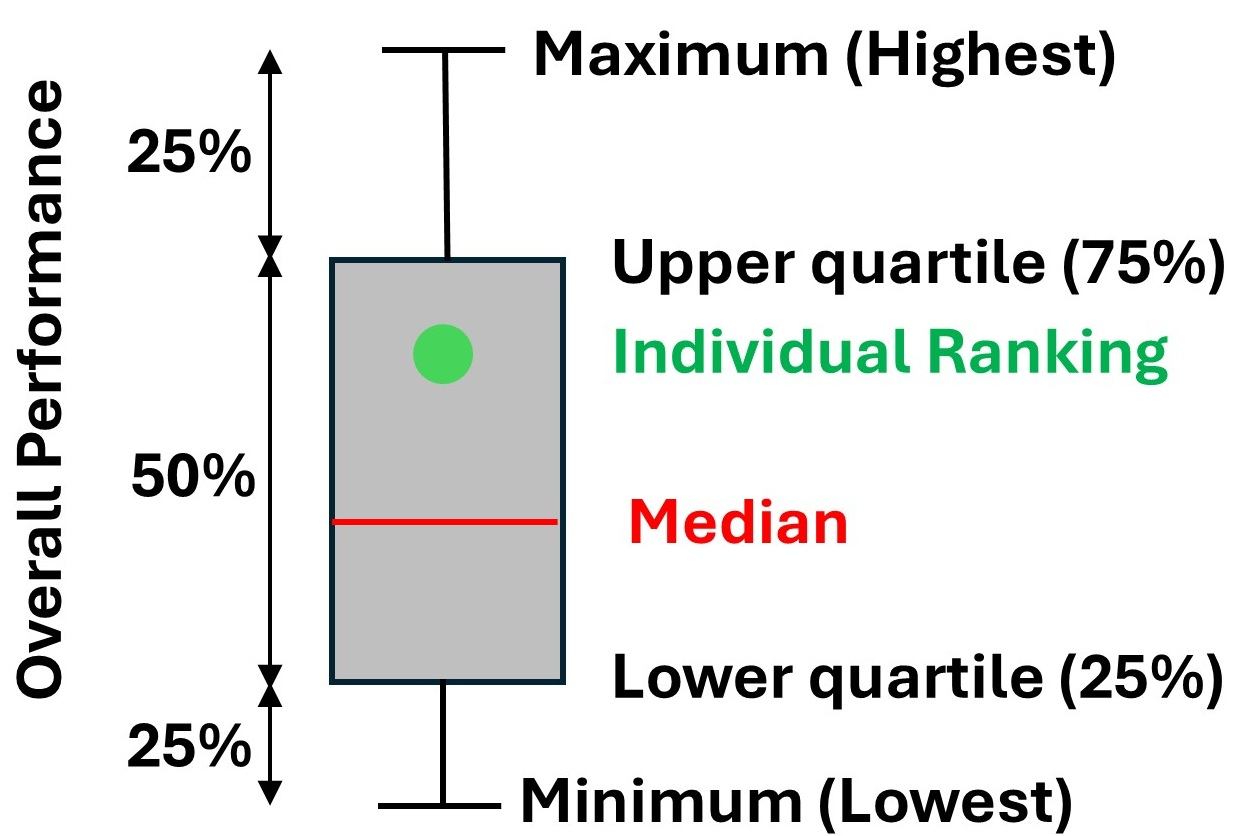
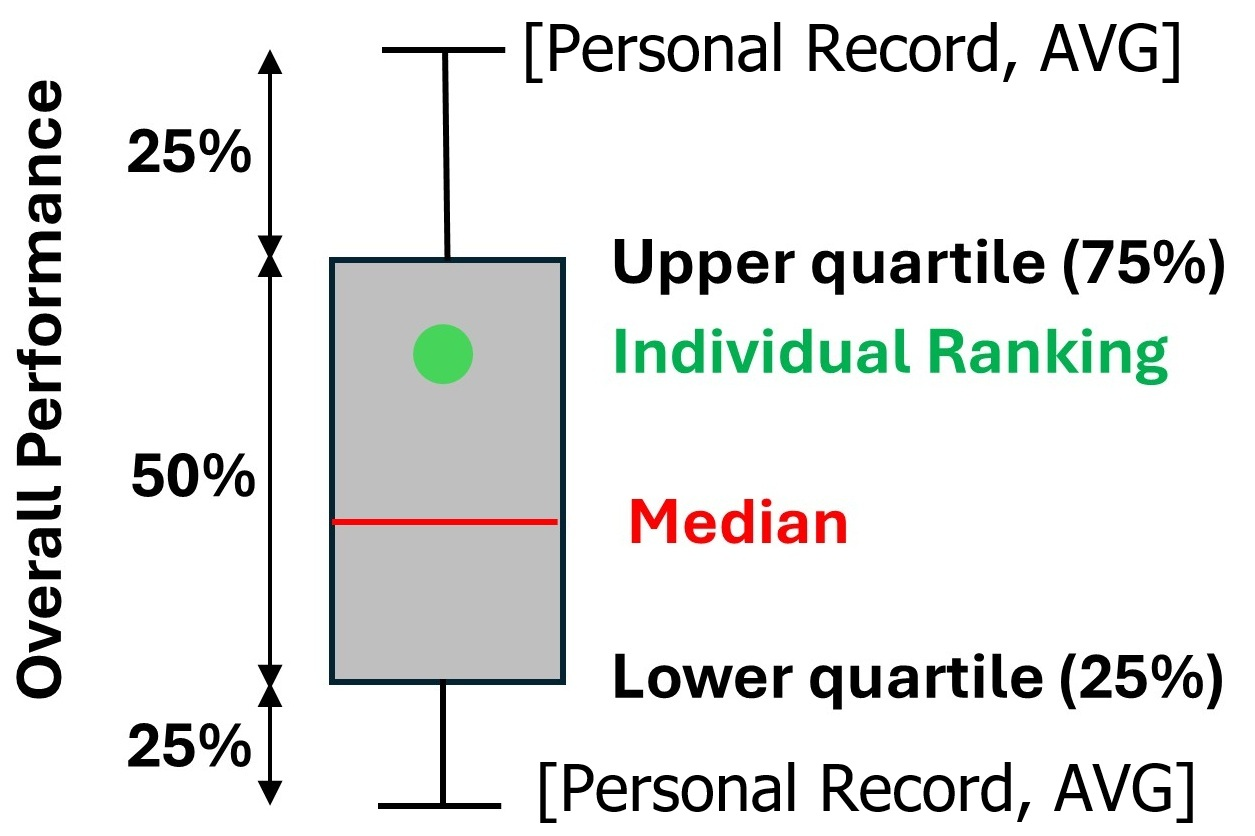
Almost Done

Changed region(s): [[0.404, 0.9019, 0.9633, 1.0], [0.404, 0.0311, 0.9633, 0.1244]]

diff --git a/python/templates/dashboard.html b/python/templates/dashboard.html
@@ -701,17 +701,16 @@
             </div>
             <img id="predictedRanking" src="" alt="Predicted Ranking" style="max-width: 100%; height: auto;">
           </div>
-          <div>
+          <div style="display: none">
             <h3>Classes Breakdown:</h3>
             <table id="classTable" style="max-width: 800px;">
-            <thead id="classTableHead">
-              <!-- History entries will be dynamically inserted here -->
-            </thead>
-            <tbody id="classTableBody">
-              <!-- History entries will be dynamically inserted here -->
-            </tbody>
-          </table>    
-
+              <thead id="classTableHead">
+                <!-- History entries will be dynamically inserted here -->
+              </thead>
+              <tbody id="classTableBody">
+                <!-- History entries will be dynamically inserted here -->
+              </tbody>
+            </table>    
           </div>
 
           <button type="submit" onclick="UplaodNewVideo()" class="btn btn-primary" style="min-width: 50px;max-width: 200px;margin-top: 20px;"> Return</button>

diff --git a/python/RankClustering.py b/python/RankClustering.py
@@ -9,6 +9,7 @@ matplotlib.use('Agg')  # Use non-interactive backend to avoid GUI issues
 import matplotlib.pyplot as plt
 from matplotlib.patches import Rectangle
 import matplotlib.cm as cm
+from matplotlib.offsetbox import AnchoredText
 
 
 class RankClustering:
@@ -87,7 +88,7 @@ class RankClustering:
             test_label.append([self.art_model.find_label(row)+1,float(row.values[0])])  
         return test_label
     
-    def draw_boxpolt(self,predicte_label, plot_name="ranking_boxplot.png",plot_title = "Ranking Prediction",is_comparison=False):
+    def draw_boxpolt(self,predicte_label,plot_name="ranking_boxplot.png",plot_title = "Ranking Prediction",is_comparison=False,runner_name="Unknown"):
         fig, ax = plt.subplots(figsize=(10, 6))
 
         # Colors and labels
@@ -98,8 +99,10 @@ class RankClustering:
         predict_color = (0.2, 0.8, 0.2, 0.6)       # semi-transparent green for predicted cluster
 
         labels = ['A', 'B', 'C', 'D', 'E']
-        
-        
+        df = self.get_cluster_summary()
+        df_index =0
+        label_y_offset = 0.04
+
         positions = list(range(len(self.boxplot_summary)))
 
         for stat, pos in zip(self.boxplot_summary, positions):
@@ -120,6 +123,9 @@ class RankClustering:
             # Whiskers
             ax.plot([pos, pos], [low, q1], color=line_color, linewidth=1)
             ax.plot([pos, pos], [q3, high], color=line_color, linewidth=1)
+            ax.text(pos, low-label_y_offset, f"[{df.iloc[df_index]['Min Best Score']}, {df.iloc[df_index]['Min Avg']}]", fontsize=10, color='black', ha='center')
+            ax.text(pos, high+label_y_offset+0.04, f"[{df.iloc[df_index]['Max Best Score']}, {df.iloc[df_index]['Max Avg']}]", fontsize=10, color='black', ha='center')
+            df_index += 1
 
             # Whisker caps
             ax.plot([pos - 0.1, pos + 0.1], [low, low], color=line_color, linewidth=1)
@@ -142,10 +148,22 @@ class RankClustering:
         if predicte_label and predicte_label[0][0] != -1:
             pred_cluster = predicte_label[0][0]
             pred_value = predicte_label[0][1]
-            ax.plot([pred_cluster], [pred_value], 'o', color=predict_color, markersize=12, label='Predicted Cluster')
+            if pred_cluster < 1 or pred_cluster > len(labels)-1:
+                ax.plot([pred_cluster], [pred_value], 'o', color='red', markersize=12, label=runner_name)
+                ax.text(pred_cluster, pred_value-0.07, "Out Of Range", fontsize=10, color='red', ha='center')
+            else:
+                ax.plot([pred_cluster], [pred_value], 'o', color=predict_color, markersize=12, label=runner_name)
+        ax.legend(title="Predicted Cluster", bbox_to_anchor=(1.05, 1), loc='upper left')
         # invert y-axis
         ax.invert_yaxis()
-
+        # Add information text
+        info_text = "Values:[PR, AVG]"
+        anchored_text = AnchoredText(info_text, loc='upper right', 
+                                    prop=dict(size=10), frameon=True)
+        anchored_text.patch.set_boxstyle("round,pad=0.5")
+        anchored_text.patch.set_facecolor("lightyellow")
+        anchored_text.patch.set_edgecolor("black")
+        ax.add_artist(anchored_text)
         if not is_comparison:
             os.makedirs(self.plot_output_folder, exist_ok=True)
             file_path = os.path.join(self.plot_output_folder, plot_name)
@@ -168,7 +186,11 @@ class RankClustering:
 
         labels = ['A', 'B', 'C', 'D', 'E']
         positions = list(range(len(self.boxplot_summary)))
-
+        # Get boxplot summary statistics
+        df = self.get_cluster_summary()
+        df_index =0
+        label_y_offset = 0.04
+        # Draw boxplots
         for stat, pos in zip(self.boxplot_summary, positions):
             q1 = stat["q1"]
             median = stat["median"]
@@ -176,25 +198,30 @@ class RankClustering:
             low = stat["whisker_low"]
             high = stat["whisker_high"]
             outliers = stat["outliers"]
-
             # Draw box
             rect = Rectangle((pos - 0.3, q1), 0.6, q3 - q1, facecolor=box_color, edgecolor=line_color, linewidth=1.2)
             ax.add_patch(rect)
 
             # Median line
             ax.plot([pos - 0.3, pos + 0.3], [median, median], color=median_color, linewidth=1)
+            # add labels for Median
+            median_label =f"[{df.iloc[df_index]['Mean Best']}, {df.iloc[df_index]['Mean Avg']}]"
+            # ax.text(pos, median+label_y_offset, f"{median_label}", fontsize=10, color='black', ha='center')
 
             # Whiskers
             ax.plot([pos, pos], [low, q1], color=line_color, linewidth=1)
+            ax.text(pos, low-label_y_offset, f"[{df.iloc[df_index]['Min Best Score']}, {df.iloc[df_index]['Min Avg']}]", fontsize=10, color='black', ha='center')
             ax.plot([pos, pos], [q3, high], color=line_color, linewidth=1)
+            ax.text(pos, high+label_y_offset+0.04, f"[{df.iloc[df_index]['Max Best Score']}, {df.iloc[df_index]['Max Avg']}]", fontsize=10, color='black', ha='center')
 
             # Whisker caps
             ax.plot([pos - 0.1, pos + 0.1], [low, low], color=line_color, linewidth=1)
             ax.plot([pos - 0.1, pos + 0.1], [high, high], color=line_color, linewidth=1)
-
+            df_index += 1
             # Outliers
             # ax.plot([pos] * len(outliers), outliers, 'o', color=outlier_color, markersize=4)
-            
+            # Add lables for each boxplot
+
         # Runner predictions
         runner_names = [item["name"] for item in predict_name_lable_dict]
         color_map = cm.get_cmap('tab10', len(runner_names))  # Use 'tab10' colormap for up to 10 unique runners
@@ -206,6 +233,8 @@ class RankClustering:
                 cluster_id = pred_label[0][0]
                 cluster_value = pred_label[0][1]
                 ax.scatter(cluster_id, cluster_value, s=100, color=color_map(idx), label=name, edgecolors='black')
+                if cluster_id < 1 or cluster_id > len(labels)-1:
+                    ax.text(cluster_id, cluster_value-0.07, "Out Of Range", fontsize=10, color='red', ha='center')
 
         # Final formatting
         ax.set_xticks(positions)
@@ -218,6 +247,16 @@ class RankClustering:
         ax.legend(title="Runner Predictions", bbox_to_anchor=(1.05, 1), loc='upper left')
         # invert y-axis
         ax.invert_yaxis()
+        # Add information text
+        info_text = "Values:[PR, AVG]"
+        anchored_text = AnchoredText(info_text, loc='upper right', 
+                                    prop=dict(size=10), frameon=True)
+        anchored_text.patch.set_boxstyle("round,pad=0.5")
+        anchored_text.patch.set_facecolor("lightyellow")
+        anchored_text.patch.set_edgecolor("black")
+        ax.add_artist(anchored_text)
+
+
         # Save the plot        
         os.makedirs(self.plot_output_folder_comparison_same, exist_ok=True)
         file_path = os.path.join(self.plot_output_folder_comparison_same, plot_name)

diff --git a/python/main.py b/python/main.py
@@ -664,7 +664,10 @@ def save_runner_score():
     response_save = supabase.table("score").update({"analysis_img_path":plot,"predict_info":predict_info}).eq("score_id",score_id).execute()
     if len(response_save.data) == 0:
         return jsonify({"response": False, "message": "Failed to analysis scores."})
-    return jsonify({"response": True, "message": "Scores saved successfully.","plot_path":plot,'class_summary':df_class_summary.to_dict(orient='records'),'class_columns':['Cluster', 'Max Best Score', 'Min Best Score', 'Mean Best', 'Max Avg','Min Avg', 'Mean Avg']}) 
+    # Edit the summary DataFrame and heders
+    class_columns = ['Cluster', 'Max Best Score', 'Min Best Score', 'Max Avg','Min Avg', 'Mean Avg']
+    df_class_summary = df_class_summary[class_columns]
+    return jsonify({"response": True, "message": "Scores saved successfully.","plot_path":plot,'class_summary':df_class_summary.to_dict(orient='records'),'class_columns':['Cluster', 'Max Best Score', 'Min Best Score', 'Max Avg','Min Avg', 'Mean Avg']}) 
 
 def convert_scores_to_float(time_str):
     pattern = re.compile(r'^(\d{1,2}):(\d{1,2})\.(\d{1,2})$|^(\d{1,3}\.\d+)$|^(\d{1,3})$')
@@ -696,8 +699,8 @@ def ranking_prediction(score_id,category, selectedEvent,season,gender, scores,ru
     rc = RankClustering(data_dic)
     pred_cluster = rc.predict_cluster(scores)
     print(f"Predicted cluster: {pred_cluster}")
-    plot_title = f"{runner_name} {category} {selectedEvent} {season} Analysis"
-    plot_path = rc.draw_boxpolt(pred_cluster,plot_name=f"{score_id}_{category}_{selectedEvent}_{season}.png",is_comparison=False,plot_title=plot_title)
+    plot_title = f"{category} {selectedEvent} {season} Analysis"
+    plot_path = rc.draw_boxpolt(pred_cluster,plot_name=f"{score_id}_{category}_{selectedEvent}_{season}.png",is_comparison=False,plot_title=plot_title,runner_name=runner_name)
     df = rc.get_cluster_summary()
     return plot_path,df,pred_cluster
 
@@ -721,6 +724,7 @@ def compare_scores_same_season_category_event_gender():
     # Filter scores based on user input selection
     filtered_scores = []
     image_name = f"{gender}_{season}_{category}_{event}"
+    plot_title = f"{gender}_{season}_{category}_{event}"
     for data in recived_data['score_data']:
         score_id = data.get("score_id")
         runner_name = data.get("runner_name")
@@ -736,10 +740,10 @@ def compare_scores_same_season_category_event_gender():
     if len(filtered_scores) == 0:
         return jsonify({"response": False, "message": "No matched scores found for this selection."})
     # Predict ranking based on scores
-    image_name = image_name + ".png"
+    # image_name = image_name + ".png"
     # print(f"Filtered scores: {filtered_scores}   {image_name}")
     rc = RankClustering({"gender":gender, "season": season, "category": category, "event": event})
-    result_path = rc.draw_boxplot_comparison_same_season_evet_category_gender(filtered_scores,image_name)
+    result_path = rc.draw_boxplot_comparison_same_season_evet_category_gender(filtered_scores,plot_name=image_name+".png",plot_title=plot_title)
     # print(f"Result path: {result_path}")
     return jsonify({"response": True, "message": "Scores found successfully.", "result_path": result_path})
        
@@ -787,7 +791,7 @@ def compare_individual():
             return jsonify({"response": False, "message": "Failed to update scores."})
         # Make plot name
         plot_name = f"{new_score_id}_{category}_{event}_{season}.png"
-        plot_title = f"{name} {category} {event} {season} Analysis"
+        plot_title = f"{category} {event} {season} Analysis"
         # # Clean old coeresponding images
         # for old in os.listdir(rc.plot_output_folder):
         #     if old.startswith('last_comparison_') and old.endswith('.png'):
@@ -799,7 +803,7 @@ def compare_individual():
         # Make new name for image
         # plot_name = f"last_comparison_{int(time.time()*1000)}.png"
 
-        plot_path = rc.draw_boxpolt(pred_cluster, plot_name=f"{plot_name}",is_comparison=False,plot_title=plot_title)
+        plot_path = rc.draw_boxpolt(pred_cluster, plot_name=f"{plot_name}",is_comparison=False,plot_title=plot_title, runner_name=name)
 
         # Save the plot path to DB
         response_update = supabase.table("score").update({"analysis_img_path": plot_path}).eq("score_id", int(new_score_id)).execute()
